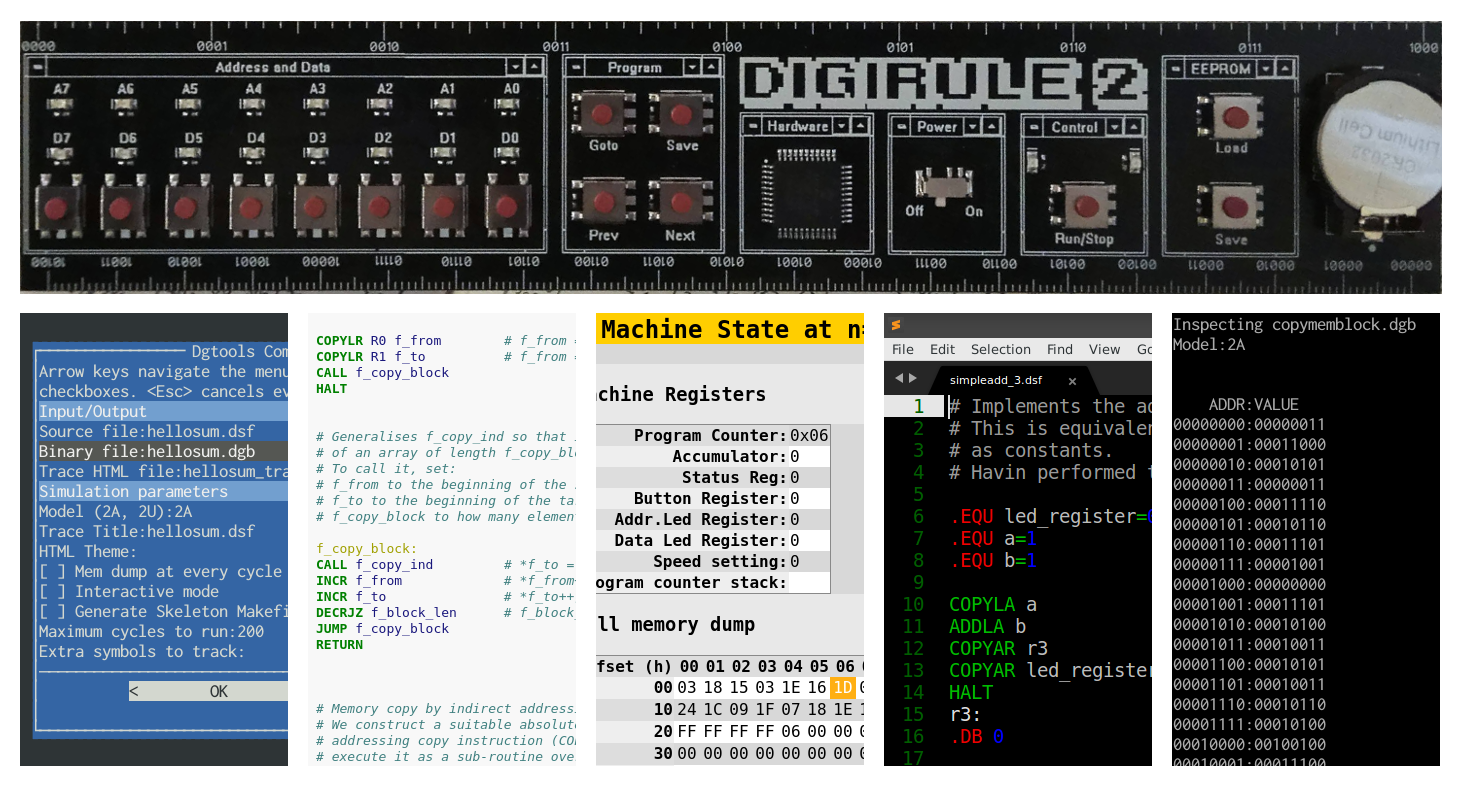
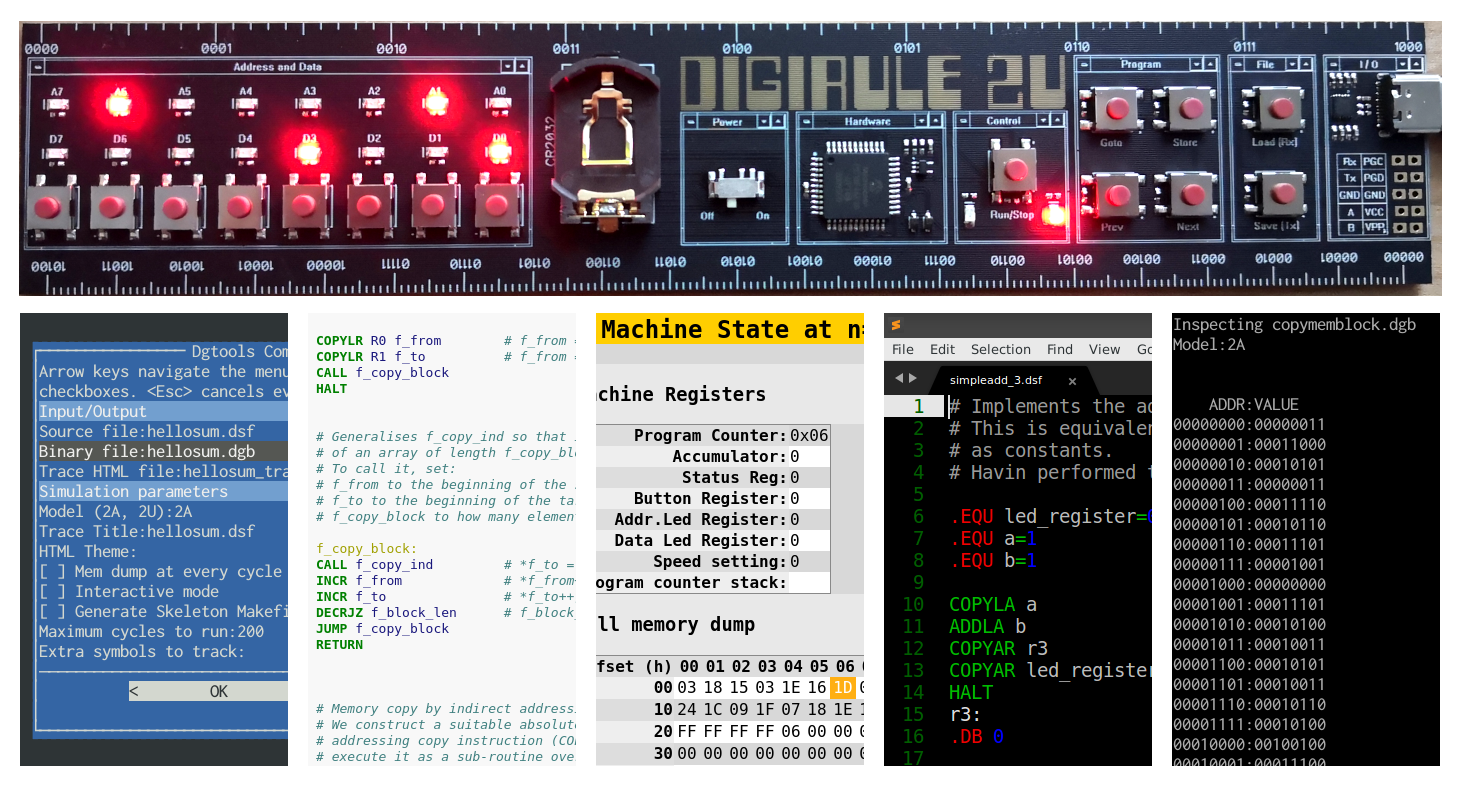
Finalised hud documentation

Changed region(s): [[0.0, 0.0, 0.9836, 0.3975]]

diff --git a/doc/source/conf.py b/doc/source/conf.py
@@ -31,6 +31,7 @@ release = '1.0.3'
 # extensions coming with Sphinx (named 'sphinx.ext.*') or your custom
 # ones.
 extensions = ["sphinx.ext.autodoc",
+              "sphinxcontrib.youtube",
 ]
 
 # Add any paths that contain templates here, relative to this directory.

diff --git a/doc/source/hud.rst b/doc/source/hud.rst
@@ -3,10 +3,14 @@ Heads Up Display
 
 This is a short note on how to turn your Digirule 2U to an auxiliary little display for up to 2 different parameters.
 
-With this program, the Digirule 2U is used to display up to 2 values simultaneously, right from the command line.
-
 You can use it to display all sorts of things such as your battery charge level, whether you have new email and any 
 other "event" you can describe with an integer number from 0 to 255.
+
+Here is what we are aiming for:
+
+..  youtube:: xsmHa0TSajQ
+    :width: 640
+    :height: 480
 
 
 What is the display?
@@ -16,6 +20,11 @@ Every Digirule, from version 2 to 2U is equipped with two rows of LEDs:
 
 1. The upper row, labeled ``A7, A6, A5...A0``, which is normally used to display the current memory address in binary; and
 2. The lower row, labeled ``D7, D6, D5...D0``, to display the byte value at the current memory address, also in binary.
+
+.. _fig_addr_data_leds:
+.. figure:: figures/fig_addr_data_leds.png
+    
+    The Digirule 2U with its two LED "bars" formed by the address and data leds.
 
 When the Digirule powers up, the default behaviour is to have the address LEDs to be showing the current memory address.
 
@@ -38,8 +47,10 @@ What are its commands?
 
 Our little display is built around a very very simple protocol: ``/<display><number>``. 
 
-``/`` is used as the starting character. This tells the code to read in the next value which here is either a ``0`` or 
-``1`` and this corresponds to which bar to set. Send ``/0`` to select the Data LED bar, or ``/1`` to select the 
+``/`` is used as the starting character. This notifies the code to read in the next value which here is either a ``0`` or 
+``1`` and this corresponds to which bar to set. 
+
+Send ``/0`` to select the Data LED bar, or ``/1`` to select the 
 address LED bar. The final step is to read in the BYTE value which is an integer number from 0 to 255.
 
 So, to set the Data LED bar so that it appears 50% lit (just 4 LEDs being lit), we would send ``/0015`` and similarly,
@@ -62,7 +73,7 @@ we know as zero.
 
 So, the interpretation of ``065`` simply boils down to evaluating 
 :math:`(48 - 48) \cdot 100 + (54 - 48) \cdot 10 + (53 - 48)` prior to storing the 
-received value to either the upper or lower display.
+received value (:math:`65`) to either the upper or lower display.
 
 Knowing how this is handled now only leaves putting it together with communications...
 
@@ -123,19 +134,19 @@ The next part is simply reading in bytes and converting them to a number:
     # ...
     
     load_new_values:
-    CBR carry_bit status_reg
+    BCLR carry_bit status_reg
     COMIN
     SUBLA 47                    # Is it the / character?
-    BCRSS zero_bit status_reg
+    BTSTSS zero_bit status_reg
     JUMP display_values         # If not go back to displaying the values
-    CBR carry_bit status_reg
+    BCLR carry_bit status_reg
     COMIN
     SUBLA 48
-    BCRSC carry_bit status_reg  # Is the display a positive number?
+    BTSTSC carry_bit status_reg  # Is the display a positive number?
     JUMP display_values
     ADDLA M1
     COPYAR R0
-    CBR carry_bit status_reg
+    BCLR carry_bit status_reg
     COMIN                       # Receive the first byte...
     SUBLA 48
     COPYAR R1
@@ -152,7 +163,7 @@ The next part is simply reading in bytes and converting them to a number:
     COMIN                       # And finally receive the third byte
     SUBLA 48
     ADDRA R2                    # And add it to the previous sum.
-    COPYAI R0                   # Now transfer the result to either M1 or M2 
+    COPYAI R0                   # Now transfer the result to either M1 or M2
     JUMP display_values         # Get back to the main loop
     
 
@@ -172,10 +183,10 @@ How to communicate with it from another computer?
 
 Driving the display from another computer is really straightforward and ideally, it involves:
 
-1. Setup the communications port parameters (More importantly speed)
-2. Send a message to the communications port.
+1. Setting up the communications port parameters (More importantly speed)
+2. Sending a message to the communications port.
 
-And all the "complexity" is then due to the way different Operating Systems access the port. 
+And all the "complexity" is then due to the way different operating systems access the port. 
 
 Here is how to do it on Linux:
 
@@ -183,13 +194,13 @@ If you don't know which "device" your Digirule 2U listens on:
 
 1. Plug the Digirule 2U in
 2. Find out which device file corresponds to the serial port
-    a. The easiest way to do this is by ``> dmesg|egrep FTDI`` to which your OS will respond with something like
+    a. The easiest way to do this is by ``> dmesg|egrep FTDI`` [#f1]_ to which your OS will respond with something like
        ``[ 6093.755022] usb 2-2: FTDI USB Serial Device converter now attached to ttyUSB0``. 
-    b. From this we know that the serial port the Digirule 2U is connected on is at ``/dev/ttyUSB0``.
+    b. From this we know that the serial port the Digirule 2U is connected on is at ``/dev/ttyUSB0`` [#f2]_.
 3. Make sure that you can write to the serial port
     a. By default, the serial port's access rights might be restricted. But since we know that the only thing that 
        is attached to this serial port is the Digirule 2U, we can go ahead and allow read/write access to it with:
-       ``> sudo chmod o+rw /dev/ttyUSB0``.
+       ``> sudo chmod o+rw /dev/ttyUSB0`` [#f3]_.
 
 Once you know which "device" the Digirule 2U uses:
 
@@ -203,15 +214,14 @@ Once you know which "device" the Digirule 2U uses:
 You might think that this is complicated but it is really worth the effort when you consider that on this operating 
 system, you can obtain information about every single part of its functionality.
 
-More on this later
+
+So, let's use this program to display the percentage of charge in a laptop's battery.
 
 
 Putting it all together
 -----------------------
 
-Now, let's use this program to display the percentage of charge in a laptop's battery.
-
-On Linux, you can get this figure via `upower <https://upower.freedesktop.org/>`_ which is the power management 
+On Linux, you can get this figure via `upower <https://en.wikipedia.org/wiki/UPower>`_ which is the power management 
 software layer.
 
 To obtain the exact "tag" of your battery power source, first run a:
@@ -229,7 +239,14 @@ Which will produce an enumeration similar to:
     > /org/freedesktop/UPower/devices/battery_BAT0
     > /org/freedesktop/UPower/devices/DisplayDevice
 
-These are all the devices that can be controlled via upower. To obtain information about ``battery_BAT0``, run a:
+These are all the devices that can be controlled via upower. 
+
+.. note::
+    On a desktop computer, it is unlikely that the battery "path" will be there, but 
+    you can query and select another parameter to display. The main idea is still the same.
+
+
+To obtain information about ``battery_BAT0``, run a:
 
 ::
 
@@ -269,25 +286,27 @@ This returns a large amount of information about the battery, similar to:
         1608420725	4.104	discharging    
         
 To "isolate" the "percentage" figure, we will use a `regular expression <https://en.wikipedia.org/wiki/Regular_expression>`_
-, via `grep <https://www.gnu.org/software/grep/>`_. To do this, run a:
+, via `grep <https://en.wikipedia.org/wiki/Grep>`_. To do this, run a:
 
 ::
 
     > upower -i /org/freedesktop/UPower/devices/battery_BAT0|egrep "percentage"|egrep "[0-9]+" -o
 
-Here, we are piping the output of ``upower`` to ``egrep`` to filter out the line of text that includes
-"percentage:        51%" and the output of that to another filter that only preserves strings that include one or more 
+Here, we are sending the output of ``upower`` to ``egrep`` (using the ``|`` (pipe) character [#f4]_ ) to filter out 
+the line of text that includes "percentage:        51%" and the output of that to another filter that only preserves 
+strings that include one or more 
 digits. The combined result of this is the number 51 (*without* the ``%`` sign).
 
 Now, what we want to send to the Digirule 2U is ``/0051``. We can format our number in this way by using 
-`printf <https://linux.die.net/man/3/printf>`_. To do this run a:
+`printf <https://en.wikipedia.org/wiki/Printf_(Unix)>`_. To do this run a:
 
 ::
 
     > printf '/0%03d'  `upower -i /org/freedesktop/UPower/devices/battery_BAT0|egrep "percentage"|egrep '[0-9]+' -o`
     
-The format string is identical to C's ``printf``. The other thing to notice here is the **backticks** used in the 
-``upower`` command which **first evaluate their content** and substitute it with the result.
+The format string is `identical to C's printf <https://en.wikipedia.org/wiki/Printf_format_string#Type_field>`_. 
+The other thing to notice here is the **backticks** used in the ``upower`` command which 
+**first evaluate their content** and substitute it with the result.
 
 This means that ``printf`` is asked to format **the result** of ``upower`` (51) as a string starting with ``/``, 
 followed by our "channel selector", here ``0``, followed by the charge percentage formated **always** as a 3 digit 
@@ -320,5 +339,31 @@ the displayed number. For example, for 51, it would have to be 64. Or in other w
 rounded logarithm of base 2 of 51. But, this is only a matter of further processing on the terminal, just before 
 using ``printf`` to format the final result and send it to the serial port.
 
-Finally, for a periodic display of the battery power, you can simply add this line to your `crontab <https://linux.die.net/man/1/crontab>`_
+Finally, for a periodic display of the battery power, you can simply add this line to your 
+`crontab <https://en.wikipedia.org/wiki/Cron>`_
 and have your Digirule2U display your battery power (or any other parameter you wish) at well set intervals.
+
+
+
+.. [#f1] `dmesg <https://en.wikipedia.org/wiki/Dmesg>`_ prints out a log of all kernel messages. Every time a USB device 
+         is plugged in to a computer it triggers a series of actions from registering its existence to loading the 
+         right device driver to make it available to the user. With ``dmesg|egrep FTDI`` we are filtering this log of
+         messages for those responses that were due to the FTDI chip that the Digirule 2U uses on its USB port.
+         
+.. [#f2] The reason a serial port over USB is mapped to ``/dev/ttyUSB0`` is due to the 
+         `everything is a file <https://en.wikipedia.org/wiki/Everything_is_a_file>`_ principle of Unix-like operating 
+         systems. Viewing devices as files simplifies and abstracts the different ways they are actually accessed by 
+         the lower level code. At the level of a user, reading from some ``/dev/camera`` location could well trigger 
+         image capturing on a device. The image is captured and sent back to the user who "thinks" they are reading 
+         a file. Similarly, anything sent to ``/dev/ttyUSB0`` is sent to the Digirule 2U via its serial port.
+         That ``tty``? Yeah, that stands for **TeleTYpewriter**........
+         `noisier than a mechanical keyboard <https://www.youtube.com/watch?v=7DpcwhmVaV8>`_
+         
+.. [#f3] `chmod <https://en.wikipedia.org/wiki/Chmod>`_ changes access permissions on a file. And since
+         *everything is a file*, it is possible to control access to devices as well. The reason a serial port might be 
+         restricted by default is because usually, serial ports lead to MODEMs...So, to discourage any user from 
+         fiddling with a possible communications link, access to serial ports is restricted for simple users.
+         This is also why, to change the permissions on the device, we need to use `sudo <https://en.wikipedia.org/wiki/Sudo>`_
+
+.. [#f4] `Piping <https://en.wikipedia.org/wiki/Pipeline_(Unix)>`_ is a fundamental concept and refers to allowing 
+         processes to communicate with each other over a very simple text only "channel". 

diff --git a/README.md b/README.md
@@ -1,3 +1,5 @@
+![](https://dgtools.readthedocs.io/en/latest/_images/full_banner_dg.png)
+
 # dgtools
 
 dgtools is a complete toolkit for developing software for the [Digirule](https://bradsprojects.com/digirule2/) 
@@ -29,8 +31,12 @@ series (`2A/2U`) of hardware by [bradsprojects](https://bradsprojects.com).
 These tools work together to write, debug and simulate code for the Digirule 2 prior to transfering it to the 
 actual hardware. 
 
-`dgtools` also includes some "extras", such as a Sublime text `.dsf` ASM plugin, a console gui (`dgui`) that can handle 
-compilation/simulation in one step and a code formatter (`dgform`).
+`dgtools` also includes some "extras", such as:
+
+1. A Sublime text `.dsf` ASM plugin, 
+2. A console gui (`dgui.py`) that can handle compilation/simulation in one step 
+3. A code formatter (`dgform.py`), to pretty print source code.
+4. [Brainfuck](https://esolangs.org/wiki/Brainfuck) and [Super Stack!](https://esolangs.org/wiki/Super_Stack!) compilers for the Digirule 2U.
 
 The most common workflow is to:
 
@@ -80,6 +86,11 @@ Once you familiarise yourself with the tools and Digirule's ASM, you might want 
 [the advanced walkthrough](https://dgtools.readthedocs.io/en/latest/advanced_topics.html) or 
 check out other [programming examples](https://dgtools.readthedocs.io/en/latest/code_projects.html) 
 in `dg_asm_eamples/`.
+
+## dgrdo.org
+
+The ASM toolchain along with the brainfuck and Super Stack! compilers is available online at `https://www.dgrdo.org`. 
+For more information see [this introduction on its functionality](https://www.dgrdo.org/static/info/about/index.html)
 
 Enjoy!
 

diff --git a/doc/source/index.rst b/doc/source/index.rst
@@ -9,16 +9,17 @@ Welcome to dgtools's documentation!
 .. image:: figures/full_banner_dg.png
 
 ``dgtools`` is a mini-toolchain for compiling and testing ASM programs for the 
-`Digirule 2 <https://bradsprojects.com/digirule2/>`_. 
+`Digirule 2 <https://bradsprojects.com/digirule2/>`_ series of hardware. 
 
 It is composed of an assembler (``dgasm.py``), a binary file "inspector" (``dginspect.py``) and a simulator
-(``dgsim.py``) that are used to develop and test code and also assist in "keying" it in, to the ruler itself.
+(``dgsim.py``) that are used to develop and test code and also assist in transfering the program to the Digirule.
 
 For an example of the level of detail in terms of simulating program execution, please see 
 `this sample output file <_static/simpleadd_2_trace.html>`_ and keep reading through the introductory section to 
 generate traces of your own code.
 
-Alternatively, you can now try out online any of the examples in these pages via `dgrdo <https://www.dgrdo.org>`_.
+Alternatively, you can now try out online any of the examples in these pages via `dgrdo <https://www.dgrdo.org>`_ 
+which also exposes the `brainfuck <https://www.dgrdo.org/bf>`_ and `Super Stack! <https://www.dgrdo.org/sust>`_ compilers included with ``dgtools``.
 
 
 .. toctree::

diff --git a/doc/source/instruction_set_notes.rst b/doc/source/instruction_set_notes.rst
@@ -5,7 +5,8 @@ Notes on the instruction set
 .. note::
 
     This section applies mainly to the Digirule2/Digirule2A instruction set. The main ideas about providing an 
-    efficient instruction set for a CPU that does not have a lot of RAM available still apply of course.
+    efficient instruction set for a CPU that does not have a lot of RAM available still apply to the Digirule 2U 
+    as well of course.
     
 
 This section contains a few notes on modifying the instruction set of a Digirule2, so that it becomes more efficient.
